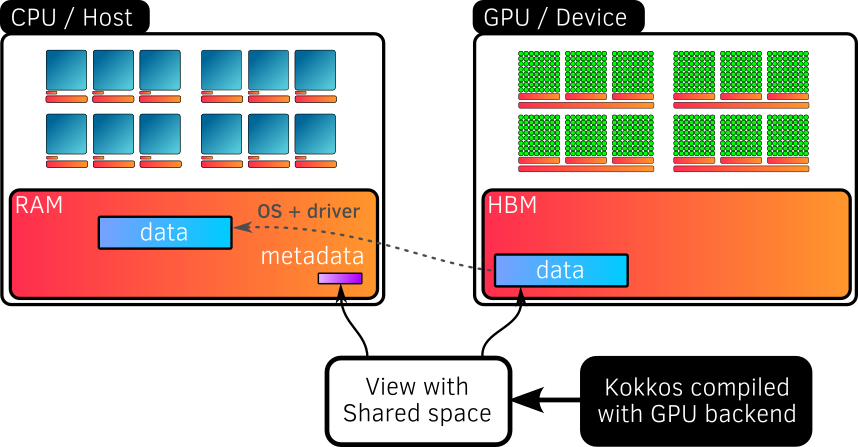
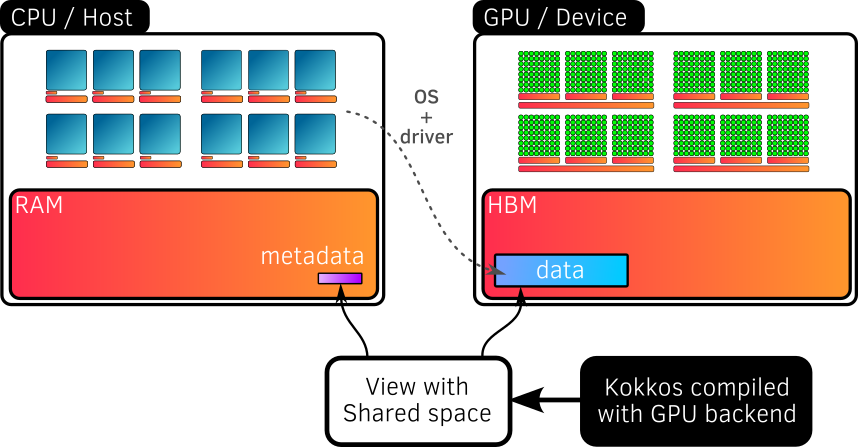
Fix SharedSpace description

diff --git a/courses/kokkos_gpu.tex b/courses/kokkos_gpu.tex
@@ -554,7 +554,7 @@
 
     \begin{itemize}
         \item If Kokkos is compiled with a \structure{GPU backend}, the View data is allocated in the \structure{Device memory}
-        \item Shared view data \structure{can} be accessed from the Host, as the data are synchronized in chunks on automatically by the OS and the driver
+        \item Shared view data \structure{can} be accessed from the Host by pages, which is managed by the OS and the driver
         \item Convenient, but comes with a slight performance cost
     \end{itemize}
 \end{frame}